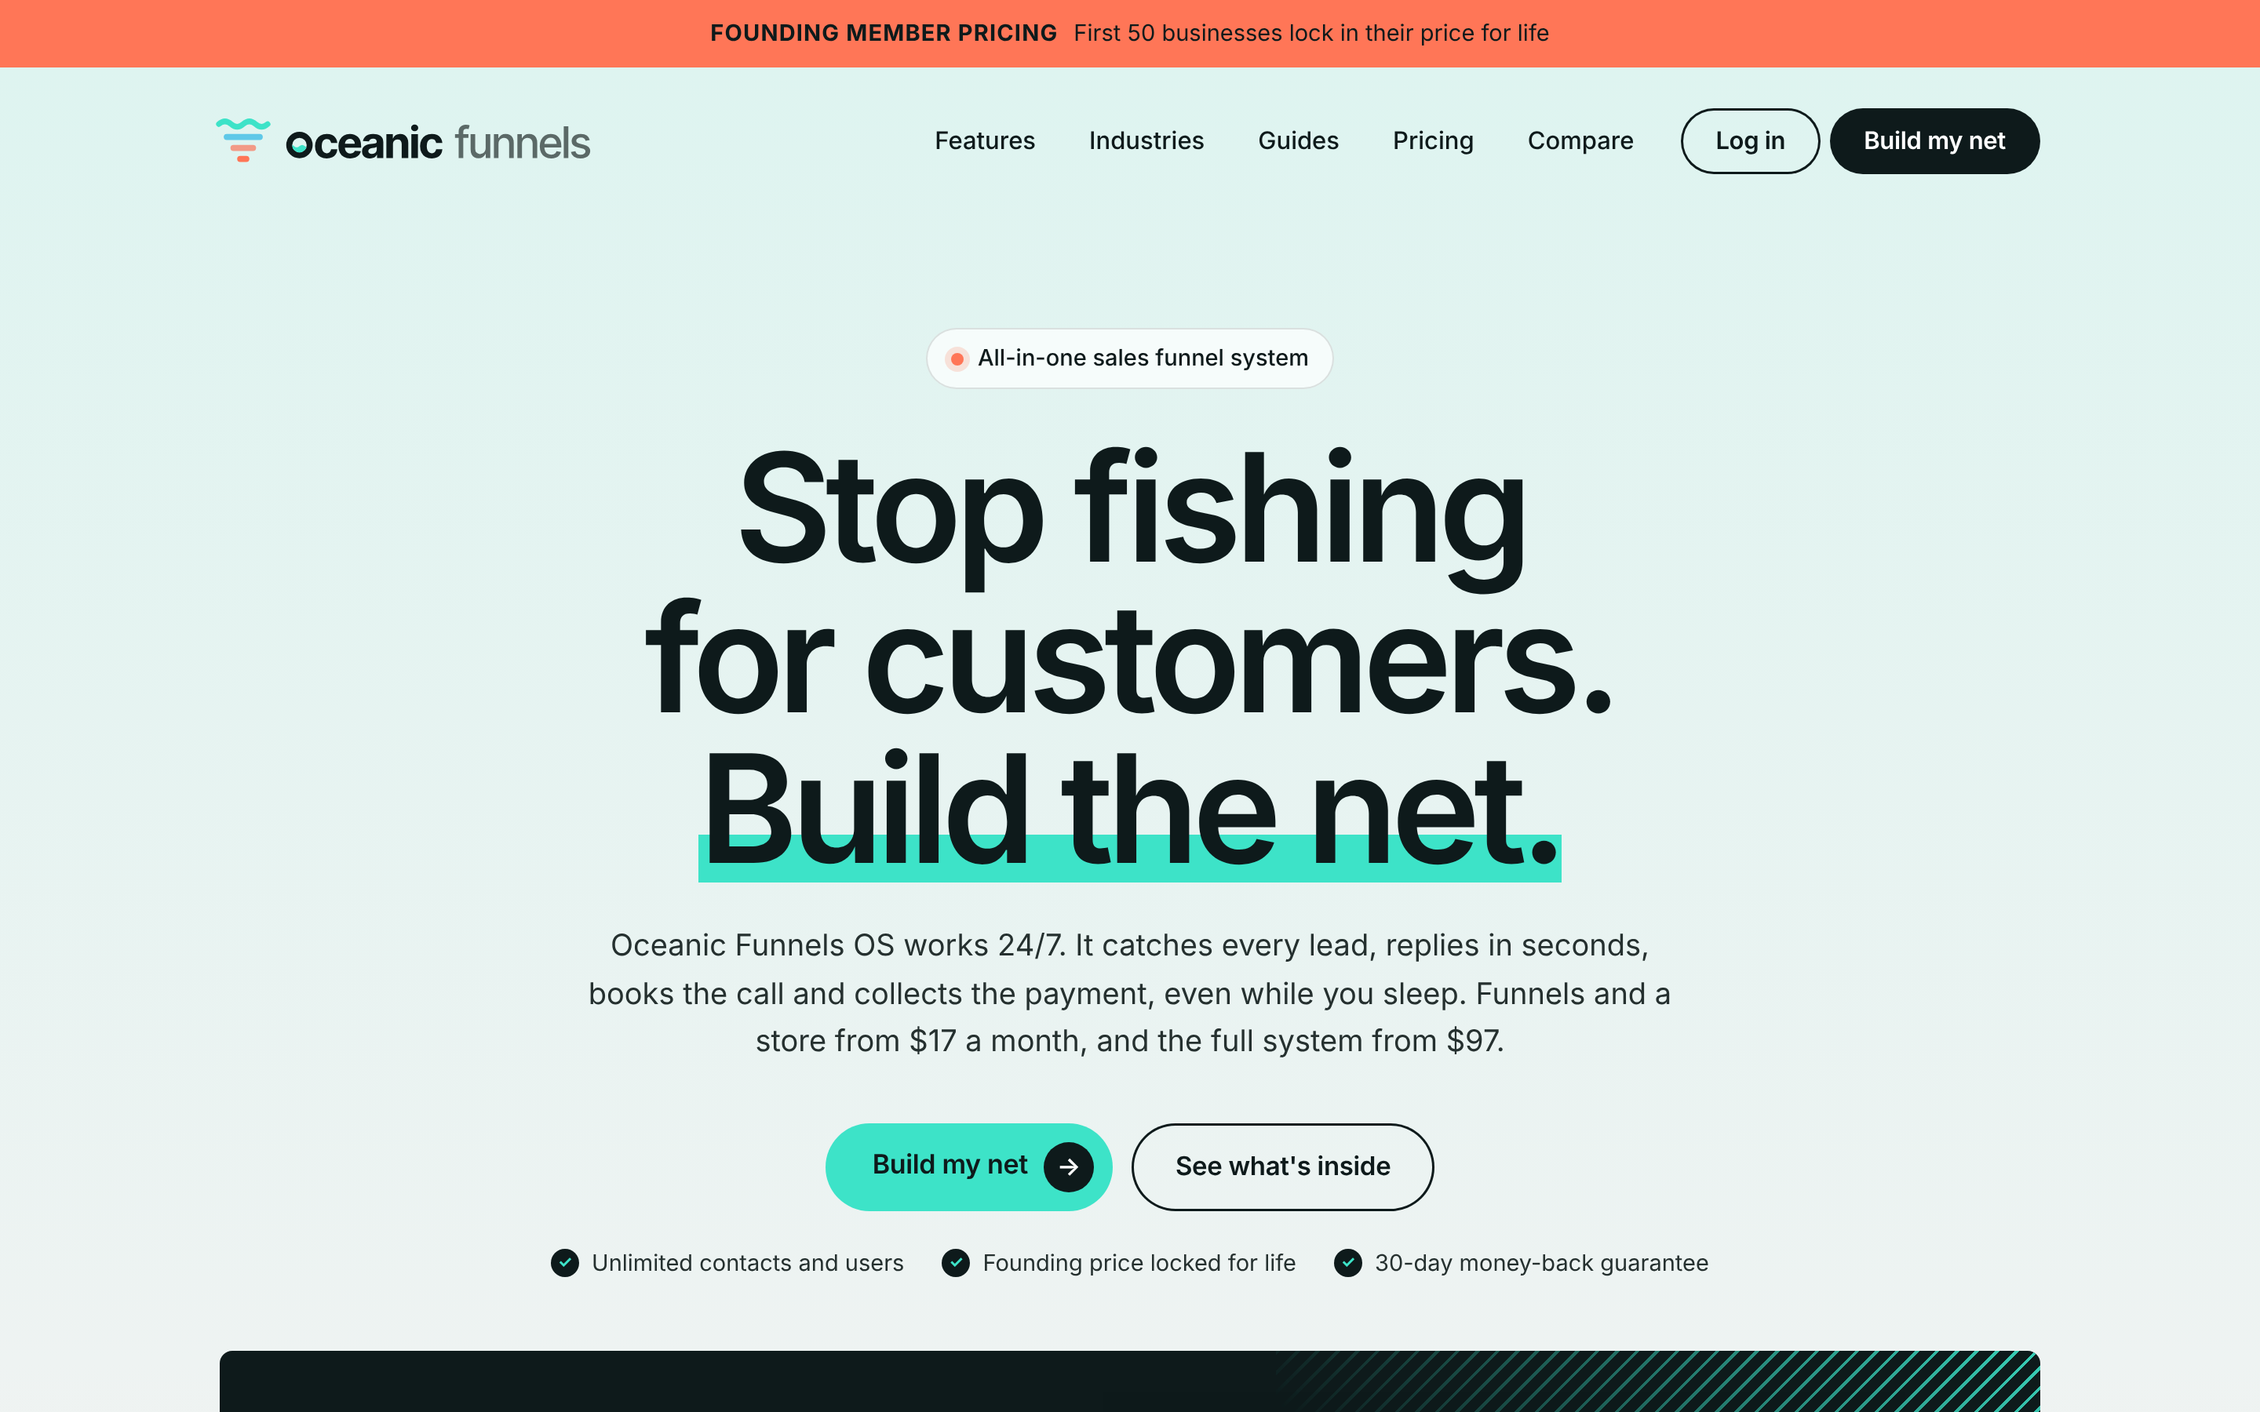
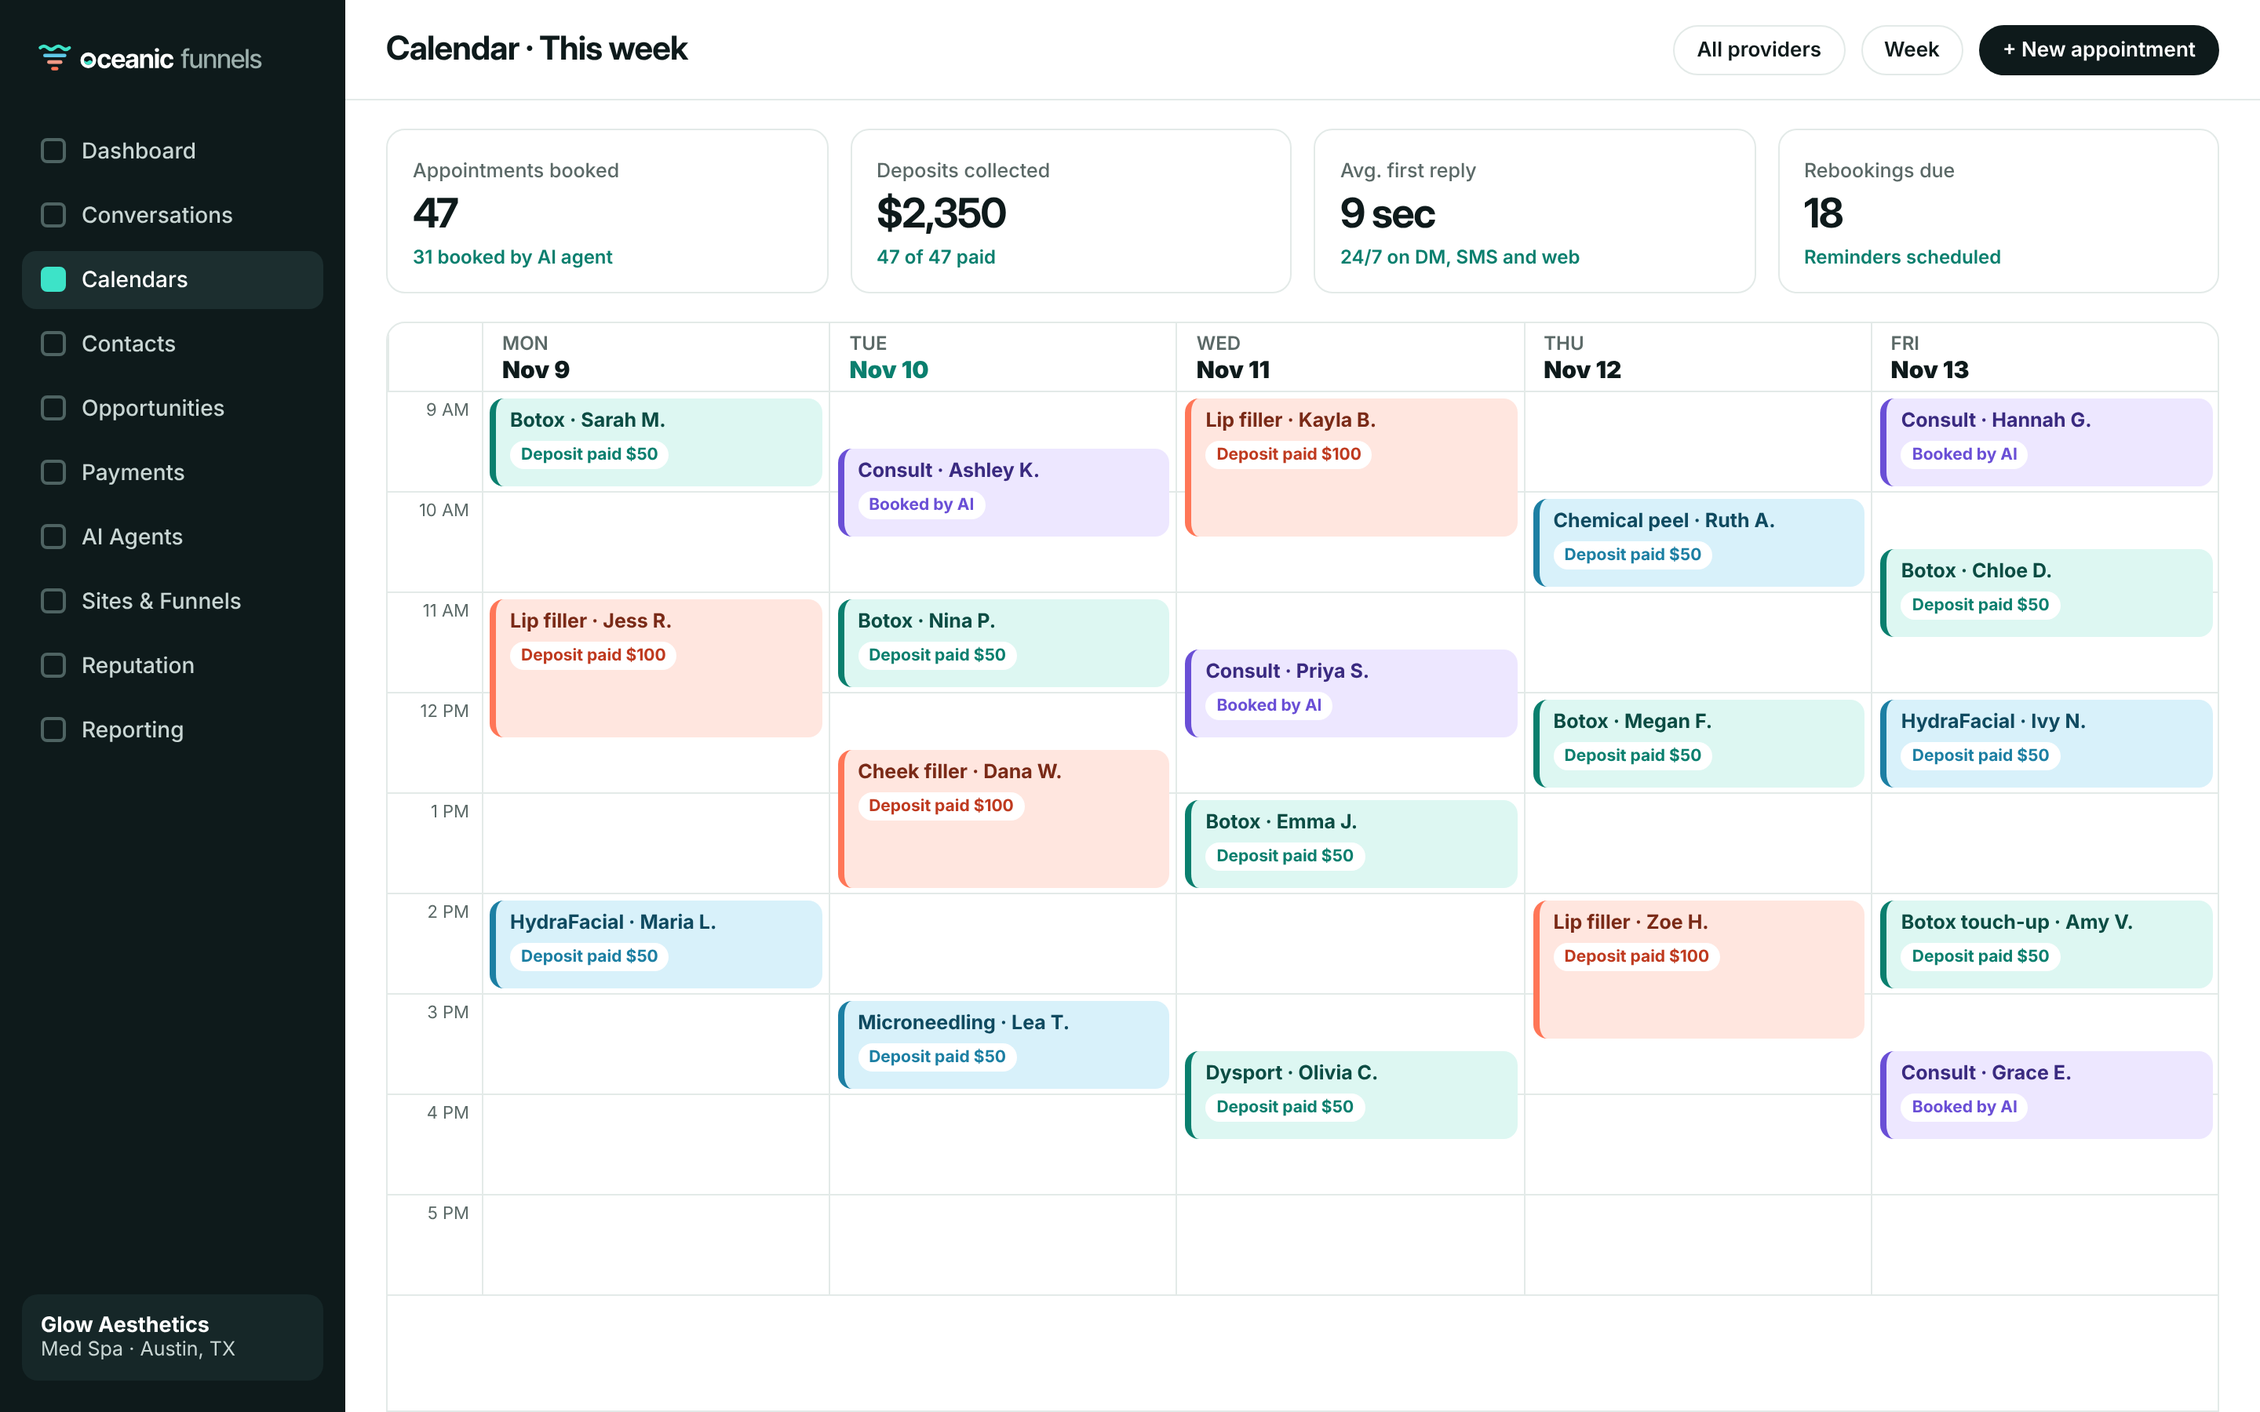
Bump image: med spa calendar with deposits, med spa funnel, AI agent booking chat
Claude-Session: https://claude.ai/code/session_01K5HZtQp5HBm5zsBKCimSuC

diff --git a/checkout/bump/scr-cal.html b/checkout/bump/scr-cal.html
@@ -1,0 +1,63 @@
+<!doctype html><html><head><meta charset="utf-8"><style>
+:root{--ink:#0E1A1B;--aqua:#3DE3C8;--aqua-d:#0A7F6E;--aqua-l:#DDF7F2;--coral:#FF7657;--coral-l:#FFE6DF;--mist:#F4F8F7;--line:#E3EAE8;--muted:#5B6967;--sky:#D8F1FA;--skyd:#1C7FA3;--vio:#EDE7FF;--viod:#6A4FD6}
+*{box-sizing:border-box;margin:0;padding:0}
+body{width:1440px;height:900px;font-family:Inter,sans-serif;color:var(--ink);display:grid;grid-template-columns:220px 1fr;background:#fff;overflow:hidden}
+.d{font-family:"Inter Display",Inter,sans-serif}
+nav{background:var(--ink);color:#C9D6D4;padding:20px 14px;display:flex;flex-direction:column;gap:4px}
+nav img{width:150px;margin:2px 6px 22px}
+nav a{display:flex;align-items:center;gap:10px;padding:10px 12px;border-radius:9px;font-size:14px;font-weight:500}
+nav a i{width:16px;height:16px;border-radius:4px;border:2px solid #4E6362;display:inline-block}
+nav a.on{background:#1C2E2F;color:#fff}nav a.on i{border-color:var(--aqua);background:var(--aqua)}
+nav .loc{margin-top:auto;background:#162728;border-radius:10px;padding:12px;font-size:12.5px}
+nav .loc b{display:block;color:#fff;font-size:13.5px}
+main{display:flex;flex-direction:column;min-width:0}
+.top{height:64px;border-bottom:1px solid var(--line);display:flex;align-items:center;justify-content:space-between;padding:0 26px}
+.top h1{font-size:21px;letter-spacing:-.02em}
+.top .r{display:flex;gap:10px;align-items:center}
+.pill{font-size:13px;font-weight:600;border:1px solid var(--line);border-radius:99px;padding:7px 14px}
+.pill.dark{background:var(--ink);color:#fff;border-color:var(--ink)}
+.kpis{display:grid;grid-template-columns:repeat(4,1fr);gap:14px;padding:18px 26px 6px}
+.k{border:1px solid var(--line);border-radius:12px;padding:14px 16px}
+.k small{font-size:12.5px;color:var(--muted);font-weight:500}
+.k b{display:block;font-size:26px;letter-spacing:-.03em;margin-top:4px}
+.k em{font-style:normal;font-size:12px;font-weight:600;color:var(--aqua-d)}
+.cal{flex:1;margin:12px 26px 0;border:1px solid var(--line);border-radius:12px 12px 0 0;display:grid;grid-template-columns:60px repeat(5,1fr);grid-template-rows:44px repeat(9,64px);overflow:hidden;position:relative}
+.h{border-bottom:1px solid var(--line);border-left:1px solid var(--line);display:flex;flex-direction:column;justify-content:center;padding-left:12px;font-size:12px;color:var(--muted);font-weight:600}
+.h b{font-size:15px;color:var(--ink)}
+.h.today b{color:var(--aqua-d)}
+.t{font-size:11px;color:var(--muted);text-align:right;padding:4px 8px 0 0;border-bottom:1px solid var(--line)}
+.c{border-left:1px solid var(--line);border-bottom:1px solid var(--line)}
+.ev{position:absolute;border-radius:9px;padding:7px 9px;font-size:11.5px;line-height:1.3;overflow:hidden;border-left:4px solid}
+.ev b{display:block;font-size:12.5px}
+.ev span{display:inline-block;margin-top:4px;font-size:10.5px;font-weight:700;border-radius:99px;padding:2px 7px;background:#fff}
+.a{background:var(--aqua-l);border-color:var(--aqua-d);color:#0B4C43}.a span{color:var(--aqua-d)}
+.o{background:var(--coral-l);border-color:var(--coral);color:#7A2A17}.o span{color:#BF3A1F}
+.s{background:var(--sky);border-color:var(--skyd);color:#0F4A60}.s span{color:var(--skyd)}
+.v{background:var(--vio);border-color:var(--viod);color:#3A2A80}.v span{color:var(--viod)}
+</style></head><body>
+<nav><img src="/home/claude/oceanicfunnels/site/assets/logo-dark.svg" alt="">
+<a><i></i>Dashboard</a><a><i></i>Conversations</a><a class="on"><i></i>Calendars</a><a><i></i>Contacts</a><a><i></i>Opportunities</a><a><i></i>Payments</a><a><i></i>AI Agents</a><a><i></i>Sites &amp; Funnels</a><a><i></i>Reputation</a><a><i></i>Reporting</a>
+<div class="loc"><b>Glow Aesthetics</b>Med Spa · Austin, TX</div></nav>
+<main>
+<div class="top"><h1 class="d">Calendar · This week</h1><div class="r"><span class="pill">All providers</span><span class="pill">Week</span><span class="pill dark">+ New appointment</span></div></div>
+<div class="kpis">
+<div class="k"><small>Appointments booked</small><b class="d">47</b><em>31 booked by AI agent</em></div>
+<div class="k"><small>Deposits collected</small><b class="d">$2,350</b><em>47 of 47 paid</em></div>
+<div class="k"><small>Avg. first reply</small><b class="d">9 sec</b><em>24/7 on DM, SMS and web</em></div>
+<div class="k"><small>Rebookings due</small><b class="d">18</b><em>Reminders scheduled</em></div>
+</div>
+<div class="cal" id="cal">
+<div class="h"></div><div class="h">MON<b>Nov 9</b></div><div class="h today">TUE<b>Nov 10</b></div><div class="h">WED<b>Nov 11</b></div><div class="h">THU<b>Nov 12</b></div><div class="h">FRI<b>Nov 13</b></div>
+</div>
+</main>
+<script>
+const cal=document.getElementById('cal');const hours=['9 AM','10 AM','11 AM','12 PM','1 PM','2 PM','3 PM','4 PM','5 PM'];
+hours.forEach(h=>{cal.insertAdjacentHTML('beforeend',`<div class="t">${h}</div>`+'<div class="c"></div>'.repeat(5))});
+const E=[[0,0,1,'a','Botox · Sarah M.','Deposit paid $50'],[0,2,1.5,'o','Lip filler · Jess R.','Deposit paid $100'],[0,5,1,'s','HydraFacial · Maria L.','Deposit paid $50'],
+[1,0.5,1,'v','Consult · Ashley K.','Booked by AI'],[1,2,1,'a','Botox · Nina P.','Deposit paid $50'],[1,3.5,1.5,'o','Cheek filler · Dana W.','Deposit paid $100'],[1,6,1,'s','Microneedling · Lea T.','Deposit paid $50'],
+[2,0,1.5,'o','Lip filler · Kayla B.','Deposit paid $100'],[2,2.5,1,'v','Consult · Priya S.','Booked by AI'],[2,4,1,'a','Botox · Emma J.','Deposit paid $50'],[2,6.5,1,'a','Dysport · Olivia C.','Deposit paid $50'],
+[3,1,1,'s','Chemical peel · Ruth A.','Deposit paid $50'],[3,3,1,'a','Botox · Megan F.','Deposit paid $50'],[3,5,1.5,'o','Lip filler · Zoe H.','Deposit paid $100'],
+[4,0,1,'v','Consult · Hannah G.','Booked by AI'],[4,1.5,1,'a','Botox · Chloe D.','Deposit paid $50'],[4,3,1,'s','HydraFacial · Ivy N.','Deposit paid $50'],[4,5,1,'a','Botox touch-up · Amy V.','Deposit paid $50'],[4,6.5,1,'v','Consult · Grace E.','Booked by AI']];
+const r=cal.getBoundingClientRect();const colW=(r.width-60)/5;
+E.forEach(([d,s,l,c,t,tag])=>{cal.insertAdjacentHTML('beforeend',`<div class="ev ${c}" style="left:${60+d*colW+5}px;top:${44+s*64+4}px;width:${colW-10}px;height:${l*64-8}px"><b>${t}</b>${l>=1?`<span>${tag}</span>`:''}</div>`)});
+</script></body></html>

diff --git a/checkout/bump/scr-funnel.html b/checkout/bump/scr-funnel.html
@@ -1,0 +1,43 @@
+<!doctype html><html><head><meta charset="utf-8"><style>
+*{box-sizing:border-box;margin:0;padding:0}
+body{width:820px;height:1180px;font-family:Inter,sans-serif;color:#2B2320;background:#FBF6F2;overflow:hidden}
+.d{font-family:"Inter Display",Inter,sans-serif}
+.bar{display:flex;justify-content:space-between;align-items:center;padding:22px 34px}
+.logo{font-family:Georgia,serif;font-size:26px;letter-spacing:.06em;color:#2B2320}
+.logo small{display:block;font-family:Inter;font-size:10px;letter-spacing:.3em;color:#A07B65;margin-top:-2px}
+.cta{background:#2B2320;color:#fff;font-weight:600;font-size:14px;padding:11px 18px;border-radius:99px}
+.hero{margin:6px 34px 0;border-radius:26px;overflow:hidden;position:relative;height:380px;
+ background:radial-gradient(420px 300px at 78% 40%,#F3D2C1 0%,rgba(243,210,193,0) 70%),radial-gradient(300px 260px at 18% 90%,#E9C6B4,rgba(233,198,180,0) 70%),linear-gradient(135deg,#F7E6DC,#EED3C4)}
+.orb{position:absolute;right:56px;top:46px;width:250px;height:290px;border-radius:140px 140px 120px 120px;background:linear-gradient(160deg,#FFF5EF,#E7BDA8 70%);box-shadow:inset -20px -30px 60px rgba(160,100,80,.25),0 30px 60px rgba(120,70,50,.2)}
+.orb:after{content:"";position:absolute;left:58px;top:40px;width:60px;height:110px;border-radius:50%;background:rgba(255,255,255,.55);filter:blur(10px)}
+.hero .tx{position:absolute;left:38px;top:44px;width:360px}
+.hero small{font-size:12px;font-weight:700;letter-spacing:.14em;color:#A0573B}
+.hero h1{font-size:44px;line-height:1.02;letter-spacing:-.03em;margin:12px 0 14px;color:#2B2320}
+.hero p{font-size:15.5px;line-height:1.5;color:#5E4D45}
+.hero .btn{display:inline-block;margin-top:20px;background:#C8664A;color:#fff;font-weight:700;padding:14px 22px;border-radius:99px;font-size:15px}
+.stars{margin-top:14px;font-size:13px;color:#5E4D45}.stars b{color:#C8664A;letter-spacing:2px;margin-right:6px}
+h2{font-size:24px;letter-spacing:-.02em;margin:30px 34px 14px}
+.tr{display:grid;grid-template-columns:repeat(3,1fr);gap:14px;margin:0 34px}
+.t{background:#fff;border-radius:18px;padding:18px;border:1px solid #EFE3DA}
+.t i{display:block;height:84px;border-radius:12px;margin-bottom:12px}
+.t b{font-size:16px}.t p{font-size:13px;color:#7A6A62;margin-top:4px}.t em{display:block;font-style:normal;font-weight:700;margin-top:10px;color:#C8664A;font-size:14px}
+.book{margin:22px 34px;background:#fff;border-radius:20px;border:1px solid #EFE3DA;padding:20px 22px}
+.book h3{font-size:18px}.book p{font-size:13px;color:#7A6A62;margin-top:4px}
+.slots{display:flex;flex-wrap:wrap;gap:9px;margin-top:14px}
+.slots span{border:1px solid #E2CFC2;border-radius:10px;padding:9px 13px;font-size:13.5px;font-weight:600}
+.slots .on{background:#2B2320;color:#fff;border-color:#2B2320}
+.dep{display:flex;justify-content:space-between;align-items:center;margin-top:16px;padding-top:14px;border-top:1px solid #F0E6DE;font-size:14px}
+.dep b{font-size:15px}.dep a{background:#C8664A;color:#fff;font-weight:700;border-radius:99px;padding:11px 18px;font-size:14px}
+</style></head><body>
+<div class="bar"><div class="logo">GLOW<small>AESTHETICS</small></div><span class="cta">Book now</span></div>
+<div class="hero"><div class="orb"></div><div class="tx"><small>AUSTIN'S FAVORITE MED SPA</small><h1 class="d">Natural results. Booked in 30 seconds.</h1><p>Botox, fillers and facials by licensed injectors. Pick a time and secure it with a small deposit.</p><span class="btn">Book your consultation →</span><div class="stars"><b>★★★★★</b>4.9 from 312 reviews</div></div></div>
+<h2 class="d">Popular treatments</h2>
+<div class="tr">
+<div class="t"><i style="background:linear-gradient(135deg,#F3DCCF,#E3B9A4)"></i><b>Botox</b><p>Smooth lines in 15 minutes</p><em>From $12 / unit</em></div>
+<div class="t"><i style="background:linear-gradient(135deg,#F6D3D3,#E7A9A9)"></i><b>Lip filler</b><p>Soft, natural volume</p><em>From $650</em></div>
+<div class="t"><i style="background:linear-gradient(135deg,#DDEEF0,#B8D9DD)"></i><b>HydraFacial</b><p>Glow in one session</p><em>From $199</em></div>
+</div>
+<div class="book"><h3 class="d">Pick your time · Botox</h3><p>Thursday, November 12</p>
+<div class="slots"><span>10:00 AM</span><span>11:30 AM</span><span class="on">1:00 PM</span><span>2:30 PM</span><span>4:00 PM</span></div>
+<div class="dep"><span>Secure your spot with a <b>$50 deposit</b>, taken off your treatment.</span><a>Pay deposit</a></div></div>
+</body></html>

diff --git a/checkout/bump/scr-ai.html b/checkout/bump/scr-ai.html
@@ -1,0 +1,38 @@
+<!doctype html><html><head><meta charset="utf-8"><style>
+*{box-sizing:border-box;margin:0;padding:0}
+body{width:390px;height:800px;font-family:Inter,sans-serif;color:#0E1A1B;background:#fff;overflow:hidden;display:flex;flex-direction:column}
+.hd{display:flex;align-items:center;gap:10px;padding:10px 16px 12px;border-bottom:1px solid #E3EAE8}
+.av{width:38px;height:38px;border-radius:50%;background:linear-gradient(135deg,#F3D2C1,#C8664A);display:grid;place-items:center;color:#fff;font-weight:700;font-size:15px;font-family:Georgia,serif}
+.hd b{font-size:15px;display:block}.hd small{font-size:12px;color:#5B6967}
+.ai{margin-left:auto;font-size:11px;font-weight:700;color:#0A7F6E;background:#DDF7F2;border-radius:99px;padding:5px 9px}
+.ch{flex:1;padding:14px 14px;display:flex;flex-direction:column;gap:9px;background:#fff}
+.day{align-self:center;font-size:11px;color:#8A9896;font-weight:600}
+.m{max-width:78%;font-size:14px;line-height:1.38;padding:10px 13px;border-radius:20px}
+.in{background:#EFEFF1;align-self:flex-start;border-bottom-left-radius:6px}
+.out{background:linear-gradient(135deg,#7B4CF5,#B44CE0);color:#fff;align-self:flex-end;border-bottom-right-radius:6px}
+.tag{align-self:flex-end;font-size:10.5px;color:#8A9896;margin-top:-5px}
+.slots{align-self:flex-end;display:flex;gap:6px}
+.slots span{font-size:12.5px;font-weight:600;border:1.5px solid #B44CE0;color:#7B4CF5;border-radius:99px;padding:6px 10px}
+.pay{align-self:flex-end;width:76%;border:1px solid #E3EAE8;border-radius:16px;overflow:hidden}
+.pay div{padding:10px 12px;font-size:12.5px;color:#5B6967}.pay b{display:block;color:#0E1A1B;font-size:14px}
+.pay a{display:block;text-align:center;background:#0E1A1B;color:#fff;font-weight:700;font-size:13px;padding:10px}
+.ok{align-self:stretch;margin:4px 6px 0;background:#DDF7F2;border:1px solid #3DE3C8;border-radius:14px;padding:10px 12px;font-size:12.5px;color:#0B4C43;display:flex;gap:9px;align-items:flex-start}
+.ok i{flex:none;width:20px;height:20px;border-radius:50%;background:#3DE3C8;color:#0E1A1B;font-style:normal;font-weight:800;font-size:12px;display:grid;place-items:center}
+.ok b{display:block;font-size:13px;color:#0E1A1B}
+.inp{margin:8px 12px 12px;border:1px solid #E3EAE8;border-radius:99px;padding:11px 16px;font-size:13px;color:#9AA7A5}
+</style></head><body>
+<div class="hd"><span class="av">G</span><div><b>glowaesthetics.atx</b><small>Instagram · Active now</small></div><span class="ai">AI agent on</span></div>
+<div class="ch">
+<span class="day">Today 9:47 PM</span>
+<div class="m in">Hi! How much is lip filler? 😊</div>
+<div class="m out">Hi Jess! Lip filler starts at $650 for 1 syringe, and every visit begins with a quick consult with our injector. Want me to find you a time?</div>
+<span class="tag">AI agent · replied in 6 sec</span>
+<div class="m in">Yes, anything this week?</div>
+<div class="m out">Here are the next openings 👇</div>
+<div class="slots"><span>Wed 2:30</span><span>Thu 1:00</span><span>Fri 4:00</span></div>
+<div class="m in">Thu 1:00 please</div>
+<div class="pay"><div><b>Lip filler · Thu, Nov 12 · 1:00 PM</b>$100 deposit, taken off your treatment</div><a>Pay $100 deposit</a></div>
+<div class="ok"><i>✓</i><div><b>Booked and deposit paid</b>Confirmation and reminders sent by text and email</div></div>
+</div>
+<div class="inp">Message…</div>
+</body></html>

diff --git a/checkout/bump/real.html b/checkout/bump/real.html
@@ -71,7 +71,7 @@ img.sc{display:block;width:100%;height:100%;object-fit:cover;object-position:top
   <span class="btn" style="left:-3px;top:228px;height:52px"></span>
   <span class="btn" style="right:-3px;top:180px;height:80px"></span>
   <div class="ph-b"><span class="island"></span>
-    <div class="pscr"><div class="sb"><b>9:41</b><span class="ic"><i class="sig"></i><i class="wifi"></i><i class="bat"></i></span></div><img class="sc" src="s-phone.png" alt="" style="height:calc(100% - 46px)"><div class="glass"></div></div>
+    <div class="pscr"><div class="sb"><b>9:41</b><span class="ic"><i class="sig"></i><i class="wifi"></i><i class="bat"></i></span></div><img class="sc" src="s-phone2.png" alt="" style="height:calc(100% - 46px)"><div class="glass"></div></div>
   </div>
 </div>
 </body></html>
